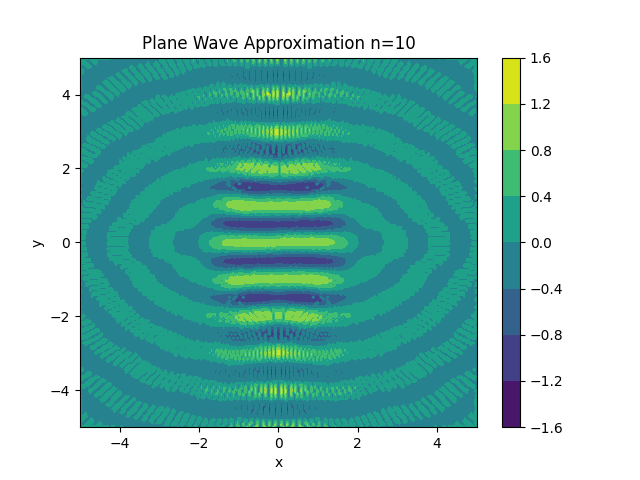
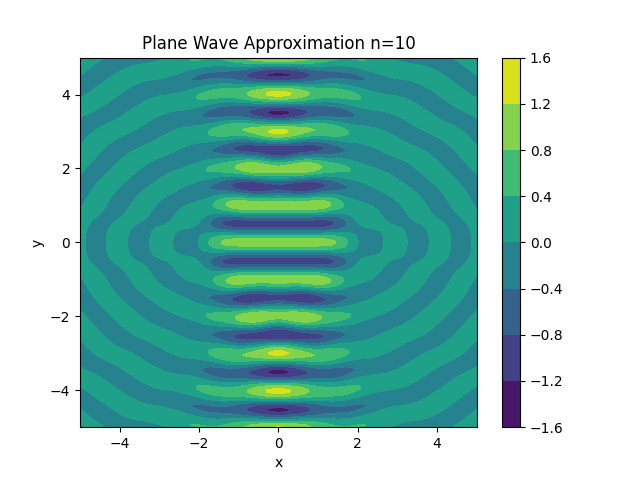
finished cylinder scattering calculations and plotting [does not include RCS]

diff --git a/spherical_scattering/pec_cylinder.py b/spherical_scattering/pec_cylinder.py
@@ -14,28 +14,30 @@ from coordinate_transforms import cyl_to_cart
 
 
 class PEC_CYLINDER_TM:
-    def __init__(self, e_incident0: complex, k: float, a: float = 1, num_samples_n: int = 40,
-                 num_samples_phi: int = 100, num_samples_rho: int = 100, max_rho: float = 5.0 * np.sqrt(2)):
+    def __init__(self, e_incident0: complex, k: float, a: float = 1.0, num_samples_n: int = 40,
+                 num_samples: int = 100, max_rho: float = 5.0 * np.sqrt(2)):
         self.e_inc0 = e_incident0
         self.num_samples_n = num_samples_n
         self.k = k
         self.a = a
-        self.num_samples_phi = num_samples_phi
-        self.phi = np.linspace(0, 2*np.pi, self.num_samples_phi)
-        self.num_samples_rho = num_samples_rho
+        self.num_samples = num_samples
         self.max_rho = max_rho
-        self.rho = np.linspace(a, self.max_rho, self.num_samples_rho)
         self.e_incz = PLANE_WAVE_EXCITATION(
             e_0=self.e_inc0,
             k=self.k,
-            num_samples=self.num_samples_rho,
+            num_samples=self.num_samples,
             rho_max=self.max_rho,
             n=self.num_samples_n,
         )
+        self.x = self.e_incz.x
+        self.y = self.e_incz.y
+        self.xy_pairs = self.e_incz.xy_pairs
+        self.rho_phi_pairs = self.e_incz.rho_phi_pairs
         self.cn = self.calculate_coefficients_cn()
-        print(f'cn: {self.cn}')
+        #print(f'cn: {self.cn}')
         self.e_scz = self.compute_scattered_field()
-        print(f'scattered field: {self.e_scz}')
+        #print(f'scattered field: {self.e_scz}')
+        self.e_tot = self.compute_total_field()
 
     def calculate_coefficients_cn(self):
         cn = np.zeros(2 * self.num_samples_n, dtype=complex)
@@ -45,37 +47,78 @@ class PEC_CYLINDER_TM:
         return cn
 
     def compute_scattered_field(self):
-        e_scz = np.zeros((len(self.rho), len(self.phi)), dtype=complex)
-        for rho_index, rho in enumerate(self.rho):
-            for phi_index, phi in enumerate(self.phi):
-                sc_sum: complex = 0.0
+        e_scz = np.zeros(len(self.rho_phi_pairs), dtype=complex)
+        for index, (rho, phi) in enumerate(self.rho_phi_pairs):
+            sc_sum: complex = 0.0
+            if rho <= self.a:
+                e_scz[index] = 0.0
+            else:
                 for n in range(-self.num_samples_n, self.num_samples_n):
                     n_index = n + self.num_samples_n
                     sc_sum += self.cn[n_index] * hankel2(n, self.k * rho) * np.exp(1j * n * phi)
                     #print(f'sc_sum[{n}]: {sc_sum}')
-                e_scz[rho_index, phi_index] = sc_sum
+                e_scz[index] = sc_sum
         return e_scz
+
+    def compute_total_field(self):
+        return self.e_incz.e_inc_z_cylindrical + self.e_scz
 
     # TODO: Transfer this function to another module for generic plotting utility
     def plot_scattered_field(self, title: str = None):
-        x, y, f_xy = cyl_to_cart(self.rho, self.phi, self.e_scz)
-        X, Y = np.meshgrid(x, y)
+        f_xy = np.copy(self.e_scz)
+        #for index, (rho, phi) in enumerate(self.rho_phi_pairs):
+            #if rho <= self.a:
+                #f_xy[index] = 0.0
 
-        plt.contourf(X, Y, f_xy.real)
+        f_xy = np.reshape(f_xy, (len(self.x), len(self.y)))
+        #x, y, f_xy = cyl_to_cart(self.rho, self.phi, self.xy_pairs)
+        X, Y = np.meshgrid(self.x, self.y)
+        fig, ax = plt.subplots()
+
+        cs = ax.contourf(X, Y, f_xy.real)
         if title is None:
-            title = f"Scattered Field Magnitude"
+            title = f"Real Part of Scattered Field"
         else:
             title = title
-        plt.title(title)
-        plt.xlabel('x')
-        plt.ylabel('y')
-        plt.colorbar()
+        ax.set_title(title)
+        ax.set_xlabel('x')
+        ax.set_ylabel('y')
+        fig.colorbar(cs, ax=ax)
+        # circle
+        circ = plt.Circle((0, 0), self.a, fill=True, color='gray')
+        ax.add_patch(circ)
+        plt.show()
+
+    def plot_total_field(self, title: str = None):
+        #for index, (rho, phi) in enumerate(self.rho_phi_pairs):
+            #if rho <= self.a:
+                #f_xy[index] = 0.0
+
+        f_xy = np.reshape(self.e_tot, (len(self.x), len(self.y)))
+        #x, y, f_xy = cyl_to_cart(self.rho, self.phi, self.xy_pairs)
+        X, Y = np.meshgrid(self.x, self.y)
+
+        fig, ax = plt.subplots()
+
+        cs = ax.contourf(X, Y, f_xy.real)
+        if title is None:
+            title = f"Real Part of Total Electric Field"
+        else:
+            title = title
+        ax.set_title(title)
+        ax.set_xlabel('x')
+        ax.set_ylabel('y')
+        fig.colorbar(cs, ax=ax)
+        # circle
+        circ = plt.Circle((0, 0), self.a, fill=True, color='gray')
+        ax.add_patch(circ)
         plt.show()
 
 
 if __name__ == '__main__':
     cylinder_scatterer = PEC_CYLINDER_TM(1.0, (2 * np.pi / 1.0))
     cylinder_scatterer.plot_scattered_field()
+    cylinder_scatterer.plot_total_field()
     """R, Phi = np.meshgrid(cylinder_scatterer.rho, cylinder_scatterer.phi)
     # 3) Flatten for Scatterpolar
     r_flat = R.ravel()

diff --git a/spherical_scattering/cylindrical_plane_wave.py b/spherical_scattering/cylindrical_plane_wave.py
@@ -29,7 +29,7 @@ class PLANE_WAVE_EXCITATION:
         self.xy_pairs = np.array([(x_val, y_val) for x_val in self.x for y_val in self.y])
         self.rho_phi_pairs = np.zeros_like(self.xy_pairs)
         for index, (x, y) in enumerate(self.xy_pairs):
-            self.rho_phi_pairs[index] = (np.sqrt(x ** 2 + y ** 2), np.atan(y/x))
+            self.rho_phi_pairs[index] = (np.sqrt(x ** 2 + y ** 2), np.atan2(y, x))
         self.e_inc_z_cylindrical = self.construct_excitation()
 
     def construct_excitation(self):

diff --git a/spherical_scattering/coordinate_transforms.py b/spherical_scattering/coordinate_transforms.py
@@ -3,7 +3,7 @@ from typing_extensions import deprecated
 import numpy as np
 from typing import Tuple
 
-@deprecated
+@deprecated("no need to call this function anymore")
 def cyl_to_cart(rhos: np.ndarray, phis: np.ndarray, func_rho_phi: np.ndarray) -> Tuple[np.ndarray, np.ndarray, np.ndarray]:
     assert rhos.shape == phis.shape
     func_xy = np.zeros((rhos.shape[0], phis.shape[0]), dtype=complex)
